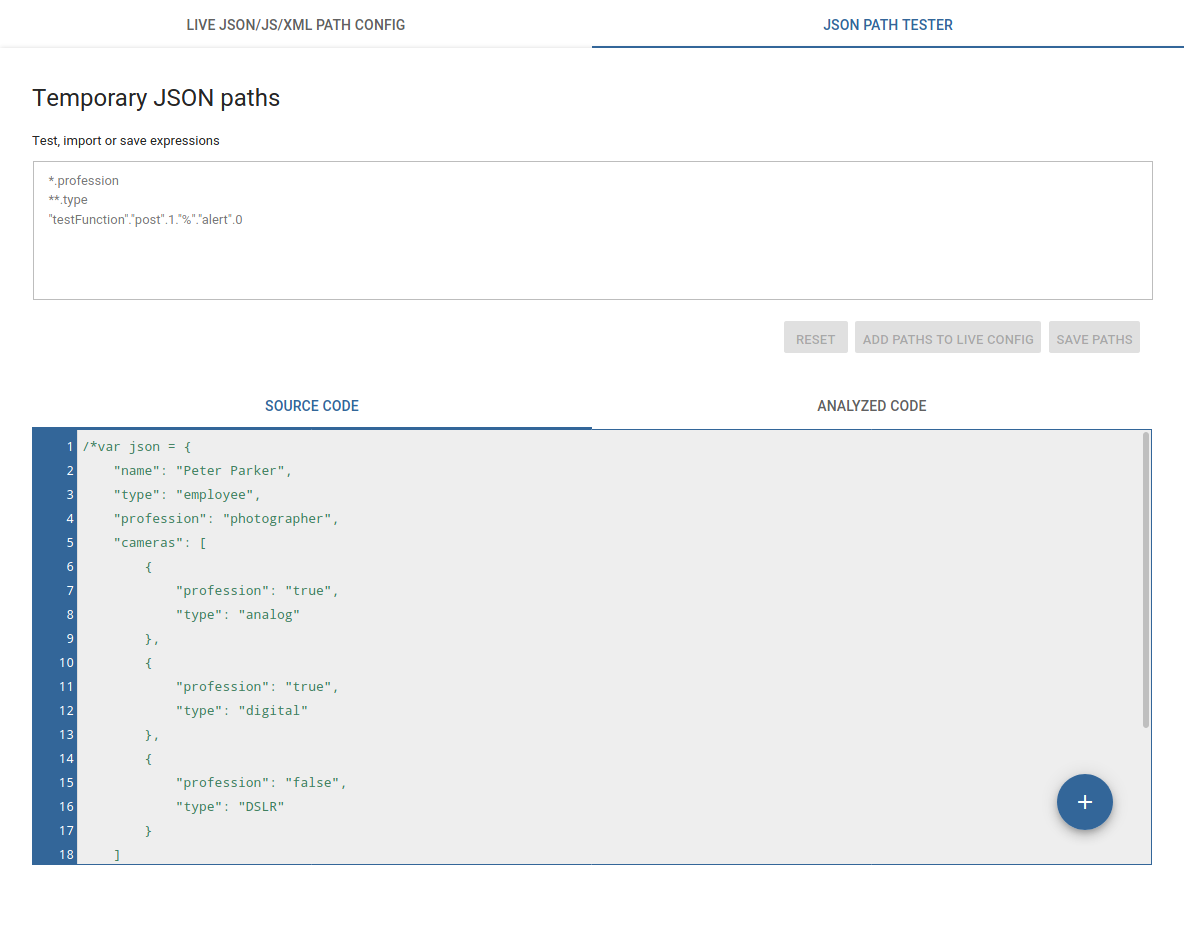
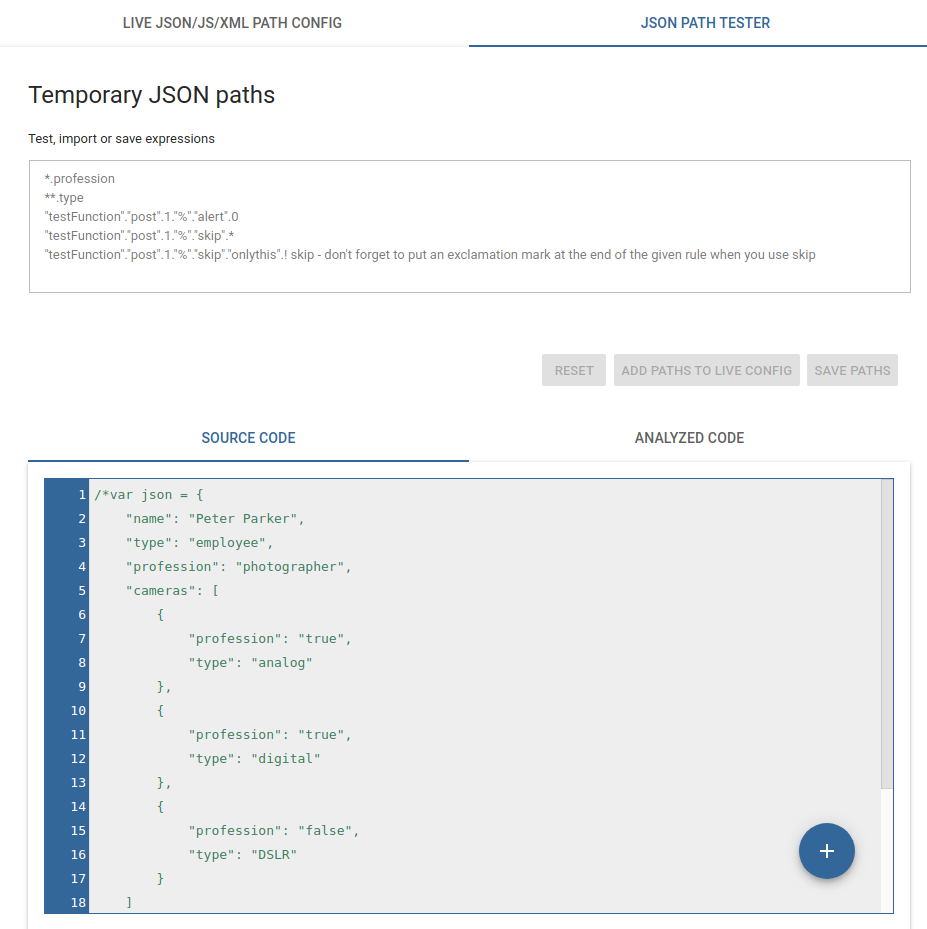
Add skip to the processing modes

diff --git a/dashboard2/settings/jptt.md b/dashboard2/settings/jptt.md
@@ -1,7 +1,7 @@
 # JSON/JS/XML processing
 
 These features used to be under Advanced settings but as they are the most important, they were moved to their own section.
- 
+
 The interface is split into 2 main sections: Live JSON/JS/XML Path Config and JSON path tester.
 
 ## Live JSON/JS/XML Path Config
@@ -62,12 +62,12 @@ Click on any of the blue + icons to generate a **JS path** for the string in que
 
 ```
 "%"."exampleVar"
-"%"."exampleUrl"
-"%"."exampleHtmlString"
+"%"."exampleUrl" url
+"%"."exampleHtmlString" html
 "%"."exampleObject"."sentence01"
 "%"."exampleObject"."sentence02"
-"%"."exampleObject"."nestedObject"."sentence03"
-"%"."exampleObject"."nestedObject"."sentence04"
+"%"."exampleObject"."nestedObject".*
+"%"."exampleObject"."nestedObject"."sentence04".! skip
 "%"."exampleObject"."exampleArray".0."value"
 "%"."exampleObject"."exampleArray".1."value"
 "%"."exampleObject"."exampleArray".2."value"
@@ -151,3 +151,12 @@ HTML:
 "%"."exampleObject"."exampleNestedHTMLinJS"."nestedHTML" html
 ```
 **Note:** The JSON Path tester tool is **not equipped** to display the nested use case.
+
+#### Skip
+
+Use this processing mode to mark child node not to be translated. Order is important, skip rules must come after the generic * rule.
+
+```
+"%"."exampleObject"."nestedObject".*
+"%"."exampleObject"."nestedObject"."sentence04".! skip
+```
